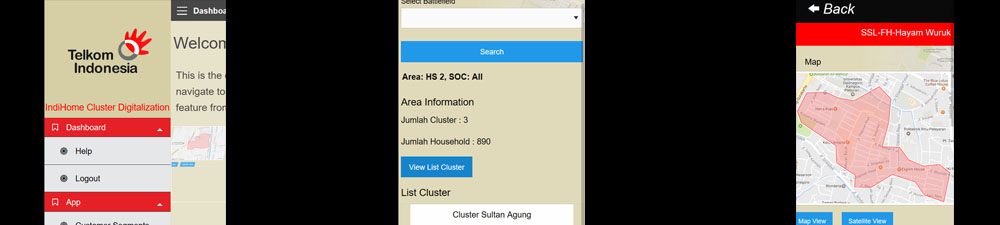
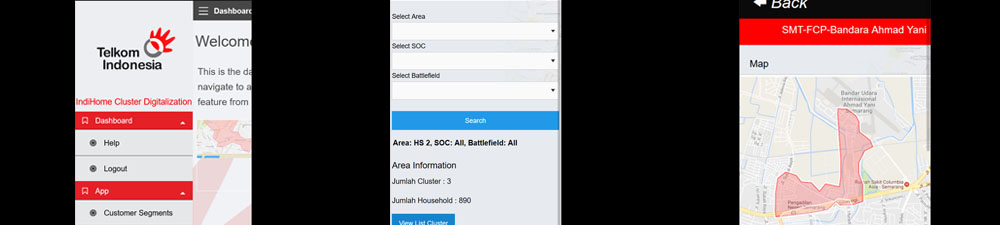
Change style and background

diff --git a/stylesheets/custom.css b/stylesheets/custom.css
@@ -31,7 +31,7 @@
 	right: 0;
 	bottom: 0;
 	left: 0;
-	background-color: #efefef;
+	background-color: white;
 	text-align: center;
 }
 
@@ -46,7 +46,29 @@
 	height: 100%;
 }
 
-/* Map-style for 9 segment */
+/* Map-style */
+.mapstyle{
+	background: #E7EAEF;
+}
+.mapstyle:before{
+	content: ' ';
+    display: block;
+    position: absolute;
+    bottom: 0;
+    right: 0;
+    opacity: 0.2;
+    width: 100%;
+    height: 100%;
+	background-image: url('../image/bg2.jpg'); 
+	background-position: bottom right; 
+	background-repeat: no-repeat; 
+	background-attachment: fixed;
+	-ms-background-size: cover;
+    -o-background-size: cover;
+    -moz-background-size: cover;
+    -webkit-background-size: cover;
+    background-size: cover;
+}
 .mapstyle-segment{
 	background-image: url('../image/bg.jpg'); background-position: top right; background-size: 100%; background-repeat: no-repeat;
 }

diff --git a/page_view-listcluster-H.php b/page_view-listcluster-H.php
@@ -45,7 +45,7 @@ include('clusterlist.php');
                  <label>Select Area
                   <select name="HS" id="ddl1" onchange="configureDropDownLists(this,document.getElementById('ddl2'),document.getElementById('ddl3'))">              
                     <option value=""></option>
-          <option value="All">All</option>          
+                    <option value="All">All</option>          
                     <option value="HS 1">HS1</option>
                     <option value="HS 2">HS2</option>
                   </select>
@@ -59,7 +59,7 @@ include('clusterlist.php');
               </div>
               <div class="column large-2 float-left large-offset-1">
                 <label>Select Battlefield
-          <select name="BF" id="ddl3">
+                  <select name="BF" id="ddl3">
                   </select>
                 </label>
               </div>
@@ -74,7 +74,7 @@ include('clusterlist.php');
         <div class="row large-12">
           <?php
           if (isset($_POST["search"]) && !empty($_POST["HS"]) && !empty($_POST["SOC"])){
-            searchparam('H',$_POST["HS"],$_POST["SOC"]);
+            searchparam('H',$_POST["HS"],$_POST["SOC"],$_POST["BF"]);
             echo "
             <style type='text/css'>
               #first-column{
@@ -84,7 +84,7 @@ include('clusterlist.php');
           ";
         }
         elseif (empty($_POST["HS"]) || empty($_POST["SOC"])){
-          echo '&nbsp&nbsp&nbsp&nbsp&nbspPlease define Area and SOC.';
+          echo '&nbsp&nbsp&nbsp&nbsp&nbspPlease define Area, SOC, and Battlefield.';
         }
         ?>
         <br><br>
@@ -92,11 +92,11 @@ include('clusterlist.php');
         <div id="first-column" class="column large-4">
           <div class="inner">
             <h3>Area Information</h3>                                 
-      <?php     
-                if (isset($_POST["search"]) && !empty($_POST["HS"]) && !empty($_POST["SOC"])) {         
-                  overview('H',$_POST["HS"],$_POST["SOC"],$_POST["BF"]);            
-                }
-                ?>      
+            <?php     
+            if (isset($_POST["search"]) && !empty($_POST["HS"]) && !empty($_POST["SOC"])) {         
+              overview('H',$_POST["HS"],$_POST["SOC"],$_POST["BF"]);            
+            }
+            ?>      
             <button class="button" id="viewListCluster">View List Cluster</button>
           </div>
         </div>

diff --git a/page_help.php b/page_help.php
@@ -20,14 +20,14 @@ include('session.php');
 </head>
 <body>
 
-  <div class="off-canvas-wrapper">
+  <div class="off-canvas-wrapper mapstyle">
     <div class="off-canvas-wrapper-inner" data-off-canvas-wrapper>
 
       <div class="off-canvas position-left reveal-for-large my-info" id="my-info" data-off-canvas data-position="left">
         <div class="row column">
           <br>
           <a href="dashboard.php"><img src="image/logo-telkom.png "></a>
-          <a href="dashboard.php"><h4 class="text-center">IndiHome Cluster Digitalization</h4></a>
+          <a href="dashboard.php"><h4 class="text-center text-red">IndiHome Cluster Digitalization</h4></a>
 
           <ul class="multilevel-accordion-menu vertical menu" data-accordion-menu>
             <li>

diff --git a/page_view-listcluster-A.php b/page_view-listcluster-A.php
@@ -74,7 +74,7 @@ include('clusterlist.php');
         <div class="row large-12">
           <?php
           if (isset($_POST["search"]) && !empty($_POST["HS"]) && !empty($_POST["SOC"])){
-            searchparam('A',$_POST["HS"],$_POST["SOC"]);
+            searchparam('A',$_POST["HS"],$_POST["SOC"],$_POST["BF"]);
             echo "
             <style type='text/css'>
               #first-column{
@@ -84,7 +84,7 @@ include('clusterlist.php');
           ";
         }
         elseif (empty($_POST["HS"]) || empty($_POST["SOC"])){
-          echo '&nbsp&nbsp&nbsp&nbsp&nbspPlease define Area and SOC.';
+          echo '&nbsp&nbsp&nbsp&nbsp&nbspPlease define Area, SOC, and Battlefield.';
         }
         ?>
         <br><br>

diff --git a/page_view-listcluster-B.php b/page_view-listcluster-B.php
@@ -74,7 +74,7 @@ include('clusterlist.php');
         <div class="row large-12">
           <?php
           if (isset($_POST["search"]) && !empty($_POST["HS"]) && !empty($_POST["SOC"])){
-            searchparam('B',$_POST["HS"],$_POST["SOC"]);
+            searchparam('B',$_POST["HS"],$_POST["SOC"],$_POST["BF"]);
             echo "
             <style type='text/css'>
               #first-column{
@@ -84,7 +84,7 @@ include('clusterlist.php');
           ";
         }
         elseif (empty($_POST["HS"]) || empty($_POST["SOC"])){
-          echo '&nbsp&nbsp&nbsp&nbsp&nbspPlease define Area and SOC.';
+          echo '&nbsp&nbsp&nbsp&nbsp&nbspPlease define Area, SOC, and Battlefield.';
         }
         ?>
         <br><br>

diff --git a/page_view-listcluster-C.php b/page_view-listcluster-C.php
@@ -74,7 +74,7 @@ include('clusterlist.php');
         <div class="row large-12">
           <?php
           if (isset($_POST["search"]) && !empty($_POST["HS"]) && !empty($_POST["SOC"])){
-            searchparam('C',$_POST["HS"],$_POST["SOC"]);
+            searchparam('C',$_POST["HS"],$_POST["SOC"],$_POST["BF"]);
             echo "
             <style type='text/css'>
               #first-column{
@@ -84,7 +84,7 @@ include('clusterlist.php');
           ";
         }
         elseif (empty($_POST["HS"]) || empty($_POST["SOC"])){
-          echo '&nbsp&nbsp&nbsp&nbsp&nbspPlease define Area and SOC.';
+          echo '&nbsp&nbsp&nbsp&nbsp&nbspPlease define Area, SOC, and Battlefield.';
         }
         ?>
         <br><br>

diff --git a/page_view-listcluster-D.php b/page_view-listcluster-D.php
@@ -74,7 +74,7 @@ include('clusterlist.php');
         <div class="row large-12">
           <?php
           if (isset($_POST["search"]) && !empty($_POST["HS"]) && !empty($_POST["SOC"])){
-            searchparam('D',$_POST["HS"],$_POST["SOC"]);
+            searchparam('D',$_POST["HS"],$_POST["SOC"],$_POST["BF"]);
             echo "
             <style type='text/css'>
               #first-column{
@@ -84,7 +84,7 @@ include('clusterlist.php');
           ";
         }
         elseif (empty($_POST["HS"]) || empty($_POST["SOC"])){
-          echo '&nbsp&nbsp&nbsp&nbsp&nbspPlease define Area and SOC.';
+          echo '&nbsp&nbsp&nbsp&nbsp&nbspPlease define Area, SOC, and Battlefield.';
         }
         ?>
         <br><br>

diff --git a/page_view-listcluster-E.php b/page_view-listcluster-E.php
@@ -74,7 +74,7 @@ include('clusterlist.php');
         <div class="row large-12">
           <?php
           if (isset($_POST["search"]) && !empty($_POST["HS"]) && !empty($_POST["SOC"])){
-            searchparam('E',$_POST["HS"],$_POST["SOC"]);
+            searchparam('E',$_POST["HS"],$_POST["SOC"],$_POST["BF"]);
             echo "
             <style type='text/css'>
               #first-column{
@@ -84,7 +84,7 @@ include('clusterlist.php');
           ";
         }
         elseif (empty($_POST["HS"]) || empty($_POST["SOC"])){
-          echo '&nbsp&nbsp&nbsp&nbsp&nbspPlease define Area and SOC.';
+          echo '&nbsp&nbsp&nbsp&nbsp&nbspPlease define Area, SOC, and Battlefield.';
         }
         ?>
         <br><br>

diff --git a/page_view-listcluster-F.php b/page_view-listcluster-F.php
@@ -74,7 +74,7 @@ include('clusterlist.php');
         <div class="row large-12">
           <?php
           if (isset($_POST["search"]) && !empty($_POST["HS"]) && !empty($_POST["SOC"])){
-            searchparam('F',$_POST["HS"],$_POST["SOC"]);
+            searchparam('F',$_POST["HS"],$_POST["SOC"],$_POST["BF"]);
             echo "
             <style type='text/css'>
               #first-column{
@@ -84,7 +84,7 @@ include('clusterlist.php');
           ";
         }
         elseif (empty($_POST["HS"]) || empty($_POST["SOC"])){
-          echo '&nbsp&nbsp&nbsp&nbsp&nbspPlease define Area and SOC.';
+          echo '&nbsp&nbsp&nbsp&nbsp&nbspPlease define Area, SOC, and Battlefield.';
         }
         ?>
         <br><br>

diff --git a/page_view-listcluster-G.php b/page_view-listcluster-G.php
@@ -74,7 +74,7 @@ include('clusterlist.php');
         <div class="row large-12">
           <?php
           if (isset($_POST["search"]) && !empty($_POST["HS"]) && !empty($_POST["SOC"])){
-            searchparam('G',$_POST["HS"],$_POST["SOC"]);
+            searchparam('G',$_POST["HS"],$_POST["SOC"],$_POST["BF"]);
             echo "
             <style type='text/css'>
               #first-column{
@@ -84,7 +84,7 @@ include('clusterlist.php');
           ";
         }
         elseif (empty($_POST["HS"]) || empty($_POST["SOC"])){
-          echo '&nbsp&nbsp&nbsp&nbsp&nbspPlease define Area and SOC.';
+          echo '&nbsp&nbsp&nbsp&nbsp&nbspPlease define Area, SOC, and Battlefield.';
         }
         ?>
         <br><br>

diff --git a/page_view-segments.php b/page_view-segments.php
@@ -21,7 +21,7 @@ include('searchclust.php');
 </head>
 <body>
 
-  <div class="off-canvas-wrapper">
+  <div class="off-canvas-wrapper mapstyle">
     <div class="off-canvas-wrapper-inner" data-off-canvas-wrapper>
 
       <div class="off-canvas position-left reveal-for-large my-info" id="my-info" data-off-canvas data-position="left">
@@ -167,7 +167,7 @@ include('searchclust.php');
 
           <div class="large-4 large-pull-1 column inner">
             <div class="row">
-              <h3>Search by ODC Name</h3>
+              <h3>Search by Cluster Name</h3>
             </div>
             <div class="row">
               <div class="large-12 columns">

diff --git a/dashboard.php b/dashboard.php
@@ -22,7 +22,7 @@ include('searchclust.php');
 </head>
 <body>
 
-  <div class="off-canvas-wrapper">
+  <div class="off-canvas-wrapper mapstyle">
     <div class="off-canvas-wrapper-inner" data-off-canvas-wrapper>
 
       <div class="off-canvas position-left reveal-for-large my-info" id="my-info" data-off-canvas data-position="left">
